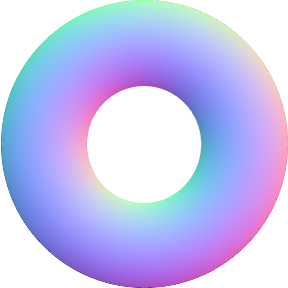
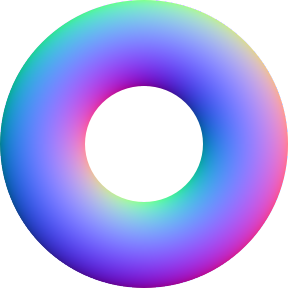
CCEffectsTest - Adjust refraction values
And fix the alpha channel in the torus normal map.

diff --git a/cocos2d-ui-tests/tests/CCEffectsTest.m b/cocos2d-ui-tests/tests/CCEffectsTest.m
@@ -45,7 +45,7 @@
     CCEffectGlass *glass = [[CCEffectGlass alloc] initWithRefraction:1.0f refractionEnvironment:refractEnvironment reflectionEnvironment:reflectEnvironment normalMap:nil];
     glass.fresnelBias = 0.1f;
     glass.fresnelPower = 2.0f;
-    glass.refraction = 0.95f;
+    glass.refraction = 0.75f;
     
     p1 = CGPointMake(0.1f, 0.1f);
     p2 = CGPointMake(0.9f, 0.9f);
@@ -150,6 +150,7 @@
     CCTexture *sphereTexture = [CCTexture textureWithFile:sphereTextureFile];
     CCSpriteFrame *sphereNormalMap = [CCSpriteFrame frameWithImageNamed:@"Images/ShinyBallNormals.png"];
     CCEffectRefraction *sphereRefraction = [[CCEffectRefraction alloc] initWithRefraction:0.1f environment:renderTexture.sprite normalMap:nil];
+    sphereRefraction.refraction = 0.75f;
     
     p1 = CGPointMake(0.1f, 0.8f);
     p2 = CGPointMake(0.35f, 0.2f);
@@ -169,6 +170,7 @@
     CCTexture *torusTexture = [CCTexture textureWithFile:torusTextureFile];
     CCSpriteFrame *torusNormalMap = [CCSpriteFrame frameWithImageNamed:@"Images/ShinyTorusNormals.png"];
     CCEffectRefraction *torusRefraction = [[CCEffectRefraction alloc] initWithRefraction:0.1f environment:renderTexture.sprite normalMap:torusNormalMap];
+    torusRefraction.refraction = 0.75f;
     
     p1 = CGPointMake(0.65f, 0.2f);
     p2 = CGPointMake(0.9f, 0.8f);
